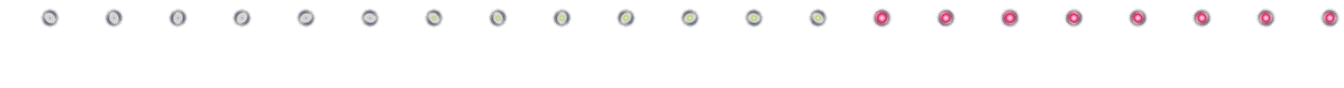
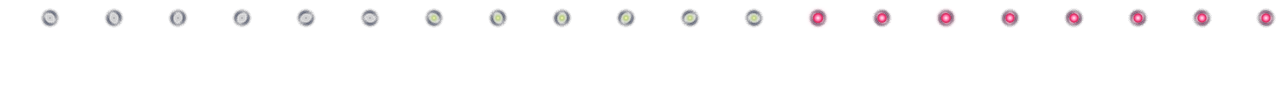
update hs again

Changed region(s): [[0.125, 0.0909, 1.0, 0.3182], [0.0312, 0.1136, 0.0938, 0.2955]]

diff --git a/src/items/tank/heartsteel.rs b/src/items/tank/heartsteel.rs
@@ -8,24 +8,23 @@ use crate::{
     TICKS_PER_SECOND,
 };
 
-// Ironheart, League's Colossal Consumption: an enemy champion who stays within
-// `effect_max_distance` of the carrier for `effect_charge_seconds` is marked,
-// and the carrier's next basic attack against them deals bonus damage and banks
-// part of it as permanent health. Each enemy champion has their own charge,
-// mark and `effect_cooldown_seconds` cooldown, so one fight can pay out on
-// several of them. Leaving range before the charge completes starts it over.
-// A mark lasts until it is spent, until either side dies, or until the enemy
-// has spent `effect_duration_seconds` out of range in one go; one that falls
-// off that way costs no cooldown.
+// Ironheart, League's Colossal Consumption: an enemy champion within
+// `effect_max_distance` of the carrier builds up stages, one for every third of
+// `effect_charge_seconds` in range (0.5 s each at the default 1.5), up to three.
+// At three the carrier's next basic attack against them deals bonus damage and
+// banks part of it as permanent health, and they go on `effect_cooldown_seconds`
+// cooldown. Each enemy champion has their own stages and cooldown, so one fight
+// can pay out on several of them. Out of range, each stage lingers
+// `effect_duration_seconds` and then drops, one at a time; death on either side
+// clears them all.
 //
-// The pictures are League's stack and trigger VFX. The charge and the mark are
-// drawn by two statless buffs on the enemy, bound in the `view_buffs` table of
-// `view/effects.view_effects` and both from `effects/heartsteel_mark`: an orb
-// up and to the right of them, a dark swirling ring for the first half of the
-// charge, then the same ring with a yellow-green core lit, then a bright pink
-// orb pulsing inside it until the attack lands. The attack bursts the orb: a
-// pink flash where it was, with sharp light-blue and pink spikes shooting out of
-// it (`effects/heartsteel_trigger`).
+// The pictures are League's stack and trigger VFX, drawn up and to the right of
+// the enemy by one statless buff per stage, bound in the `view_buffs` table of
+// `view/effects.view_effects` and all from `effects/heartsteel_mark`: a dark
+// swirling ring, then the same ring with a yellow-green core lit, then a bright
+// pink orb pulsing inside it. The attack bursts the orb: a pink flash where it
+// was, with sharp light-blue and pink spikes shooting out of it
+// (`effects/heartsteel_trigger`).
 
 /// The Ironheart proc sound: `sound/sfx/riot_heartsteel_ironheart.sound_info`,
 /// mapped into `asset/base/sound/sfx` by `mod.override_info`, which is where
@@ -33,19 +32,20 @@ use crate::{
 /// 2 dB with its peaks limited to -1 dBFS, its tail trimmed, and faded in and
 /// out; the first cut, 3 dB down, was too quiet in game.
 const IRONHEART_SFX: &str = "riot_heartsteel_ironheart";
-/// Over an enemy champion while Ironheart charges on them (tag `charge`, drawn
-/// for the default 1.5 second charge).
-const CHARGE_BUFF: &str = "riot_heartsteel_charge";
-/// Over an enemy champion Ironheart has charged on (tag `ready`).
-const MARK_BUFF: &str = "riot_heartsteel_mark";
-/// The burst on the enemy when a mark is spent (a `view_effects` animation).
+/// The picture for each stage, tags `stage1` to `stage3`. The last is the
+/// charged one: the next basic attack against them procs.
+const STAGE_BUFFS: [&str; 3] = [
+    "riot_heartsteel_stage1",
+    "riot_heartsteel_stage2",
+    "riot_heartsteel_stage3",
+];
+const MAX_STAGES: u8 = 3;
+/// The stage picture is refreshed once a second, so it never lapses while the
+/// stage is up, and is gone half a second after a missed refresh: the item left.
+const STAGE_BUFF_TICKS: usize = 90;
+/// The burst where the orb was when the charged attack lands (a `view_effects`
+/// animation).
 const TRIGGER_EFFECT: &str = "riot_heartsteel_trigger";
-/// The charge buff outlasts the charge by this much, so it always comes off on
-/// purpose rather than running out a tick early.
-const CHARGE_BUFF_GRACE_TICKS: usize = 30;
-/// The mark is refreshed once a second, so it never lapses while it is up, and
-/// is gone half a second after a missed refresh: the item left.
-const MARK_BUFF_TICKS: usize = 90;
 
 #[derive(Clone, Debug)]
 pub struct Heartsteel {
@@ -83,7 +83,7 @@ impl Heartsteel {
             effect_bonus_hp_percent_of_damage: 10.0,
             effect_max_distance: 70,
             effect_charge_seconds: 1.5,
-            effect_duration_seconds: 8.0,
+            effect_duration_seconds: 3.0,
             effect_cooldown_seconds: 30.0,
             // Non-vital stats (internals)
             accumulated_bonus_hp: 0,
@@ -103,7 +103,7 @@ impl Heartsteel {
             effect_bonus_hp_percent_of_damage: 10.0,
             effect_max_distance: 70,
             effect_charge_seconds: 1.5,
-            effect_duration_seconds: 8.0,
+            effect_duration_seconds: 3.0,
             effect_cooldown_seconds: 30.0,
             ..Self::base()
         }
@@ -136,19 +136,13 @@ impl Heartsteel {
         self
     }
 
-    /// Ends every charge and mark: the carrier died or respawned. The
-    /// cooldowns keep running.
-    fn drop_charges(&mut self, ctx: &mut StableSim<'_>) {
+    /// Clears every enemy's stages: the carrier respawned. The cooldowns keep
+    /// running.
+    fn clear_stages(&mut self, ctx: &mut StableSim<'_>) {
         for target in self.targets.values_mut() {
-            if target.charge > 0 {
-                ctx.entity_remove_buff(target.entity, CHARGE_BUFF);
-            }
-            if target.marked {
-                ctx.entity_remove_buff(target.entity, MARK_BUFF);
-            }
-            target.charge = 0;
-            target.marked = false;
-            target.away = 0;
+            set_stage(ctx, target, 0);
+            target.progress = 0;
+            target.idle = 0;
         }
     }
 }
@@ -197,7 +191,7 @@ impl StableItem for Heartsteel {
 
     fn on_spawn(&mut self, ctx: &mut StableSim<'_>, player: usize) {
         self.procs.clear();
-        self.drop_charges(ctx);
+        self.clear_stages(ctx);
 
         let Some(player_ref) = ctx.get_player(player) else {
             return;
@@ -220,7 +214,8 @@ impl StableItem for Heartsteel {
         );
     }
 
-    /// Spends a mark: a basic attack against a marked enemy champion.
+    /// Spends the charge: a basic attack against an enemy champion at the last
+    /// stage.
     fn on_attack(
         &mut self,
         ctx: &mut StableSim<'_>,
@@ -238,17 +233,17 @@ impl StableItem for Heartsteel {
             return;
         };
         let cooldown = ticks(self.effect_cooldown_seconds);
-        let Some(marked) = self
+        let Some(charged) = self
             .targets
             .values_mut()
-            .find(|t| t.marked && t.entity == target)
+            .find(|t| t.stages == MAX_STAGES && t.entity == target)
         else {
             return;
         };
-        marked.marked = false;
-        marked.away = 0;
-        marked.cooldown = cooldown;
-        ctx.entity_remove_buff(target, MARK_BUFF);
+        set_stage(ctx, charged, 0);
+        charged.progress = 0;
+        charged.idle = 0;
+        charged.cooldown = cooldown;
 
         let bonus_damage = self.effect_bonus_flat_damage
             + percent_of(max_hp, self.effect_caster_hp_percent_damage);
@@ -275,8 +270,8 @@ impl StableItem for Heartsteel {
         self.accumulated_bonus_hp += bonus_hp;
     }
 
-    /// Lands the Ironheart damage whose delay has run out, then charges, marks
-    /// and cools down every enemy champion.
+    /// Lands the Ironheart damage whose delay has run out, then builds, drops
+    /// and cools down every enemy champion's stages.
     fn update(&mut self, ctx: &mut StableSim<'_>, _rng_seed: u64, player: usize) {
         self.procs.update(ctx, player);
 
@@ -303,80 +298,48 @@ impl StableItem for Heartsteel {
         }
 
         let reach = (self.effect_max_distance * DISTANCE_UNITS_PER_RANGE) as u64;
-        let charge_ticks = ticks(self.effect_charge_seconds).max(1);
-        let away_ticks = ticks(self.effect_duration_seconds).max(1);
+        let stage_ticks = (ticks(self.effect_charge_seconds) / MAX_STAGES as usize).max(1);
+        let linger_ticks = ticks(self.effect_duration_seconds).max(1);
         let refresh = ctx.tick() % TICKS_PER_SECOND as usize == 0;
         for (id, entity, alive) in enemies {
             let target = self.targets.entry(id).or_default();
             target.entity = entity;
             target.cooldown = target.cooldown.saturating_sub(1);
-            // Death on either side ends a charge and a mark.
+            // Death on either side clears every stage.
             let Some(carrier_id) = carrier.filter(|_| alive) else {
-                if target.charge > 0 {
-                    ctx.entity_remove_buff(entity, CHARGE_BUFF);
-                }
-                if target.marked {
-                    ctx.entity_remove_buff(entity, MARK_BUFF);
-                }
-                target.charge = 0;
-                target.marked = false;
-                target.away = 0;
+                set_stage(ctx, target, 0);
+                target.progress = 0;
+                target.idle = 0;
                 continue;
             };
-            if target.marked {
-                // Too long out of range and the mark falls off, with no
-                // cooldown: the next time they come close it charges again.
-                if ctx.distance_sq(carrier_id, entity) > reach * reach {
-                    target.away += 1;
-                    if target.away >= away_ticks {
-                        target.marked = false;
-                        target.away = 0;
-                        ctx.entity_remove_buff(entity, MARK_BUFF);
-                        continue;
+            let in_range = ctx.distance_sq(carrier_id, entity) <= reach * reach;
+            if in_range && target.cooldown == 0 {
+                // Building: a stage for every `stage_ticks` in range.
+                target.idle = 0;
+                if target.stages < MAX_STAGES {
+                    target.progress += 1;
+                    if target.progress >= stage_ticks {
+                        target.progress = 0;
+                        let next = target.stages + 1;
+                        set_stage(ctx, target, next);
                     }
-                } else {
-                    target.away = 0;
                 }
-                if refresh {
-                    refresh_buff(
-                        ctx,
-                        entity,
-                        MARK_BUFF,
-                        &BuffV1::timed(MARK_BUFF, MARK_BUFF_TICKS),
-                    );
+            } else {
+                // Out of range: part of a stage is lost at once, a whole one
+                // lingers `linger_ticks` and then drops, one at a time.
+                target.progress = 0;
+                if target.stages > 0 {
+                    target.idle += 1;
+                    if target.idle >= linger_ticks {
+                        target.idle = 0;
+                        let next = target.stages - 1;
+                        set_stage(ctx, target, next);
+                    }
                 }
-                continue;
             }
-            if target.cooldown > 0 {
-                continue;
-            }
-            if ctx.distance_sq(carrier_id, entity) > reach * reach {
-                if target.charge > 0 {
-                    target.charge = 0;
-                    ctx.entity_remove_buff(entity, CHARGE_BUFF);
-                }
-                continue;
-            }
-            if target.charge == 0 {
-                refresh_buff(
-                    ctx,
-                    entity,
-                    CHARGE_BUFF,
-                    &BuffV1::timed(CHARGE_BUFF, charge_ticks + CHARGE_BUFF_GRACE_TICKS),
-                );
-            }
-            target.charge += 1;
-            if target.charge >= charge_ticks {
-                target.charge = 0;
-                target.marked = true;
-                target.away = 0;
-                ctx.entity_remove_buff(entity, CHARGE_BUFF);
-                refresh_buff(
-                    ctx,
-                    entity,
-                    MARK_BUFF,
-                    &BuffV1::timed(MARK_BUFF, MARK_BUFF_TICKS),
-                );
+            if refresh && target.stages > 0 {
+                let name = STAGE_BUFFS[target.stages as usize - 1];
+                refresh_buff(ctx, entity, name, &BuffV1::timed(name, STAGE_BUFF_TICKS));
             }
         }
     }
@@ -414,13 +377,35 @@ impl StableItem for Heartsteel {
 struct Target {
     /// Their champion entity, as of the last update.
     entity: usize,
-    /// Ticks spent in range so far; they are marked at `effect_charge_seconds`.
-    charge: usize,
-    /// Charged: the carrier's next basic attack against them procs.
-    marked: bool,
-    /// Ticks in a row they have been out of range while marked; the mark falls
-    /// off at `effect_duration_seconds`.
-    away: usize,
-    /// Ticks left before Ironheart can charge on them again.
+    /// 0 to `MAX_STAGES`; at the last one the carrier's next basic attack
+    /// against them procs.
+    stages: u8,
+    /// Ticks in range toward the next stage.
+    progress: usize,
+    /// Ticks out of range since a stage was last gained or dropped; the top
+    /// one drops at `effect_duration_seconds`.
+    idle: usize,
+    /// Ticks left before Ironheart can build stages on them again.
     cooldown: usize,
+}
+
+/// Moves `target` to `stage`, swapping the picture over them: the old stage's
+/// comes off and the new one's goes on. Stage 0 has none.
+fn set_stage(ctx: &mut StableSim<'_>, target: &mut Target, stage: u8) {
+    if target.stages == stage {
+        return;
+    }
+    if target.stages > 0 {
+        ctx.entity_remove_buff(target.entity, STAGE_BUFFS[target.stages as usize - 1]);
+    }
+    target.stages = stage;
+    if stage > 0 {
+        let name = STAGE_BUFFS[stage as usize - 1];
+        refresh_buff(
+            ctx,
+            target.entity,
+            name,
+            &BuffV1::timed(name, STAGE_BUFF_TICKS),
+        );
+    }
 }
